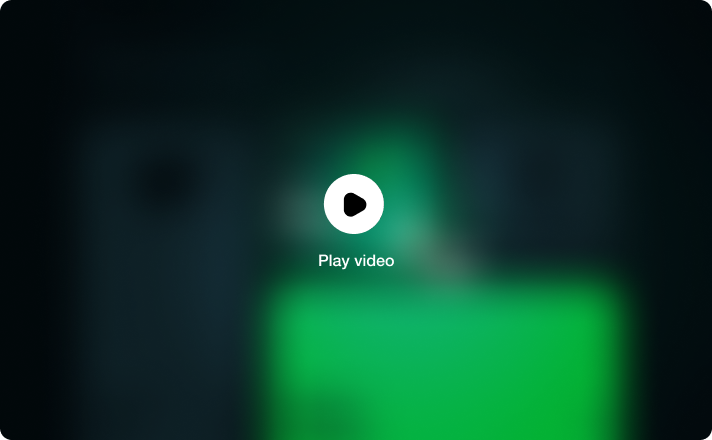
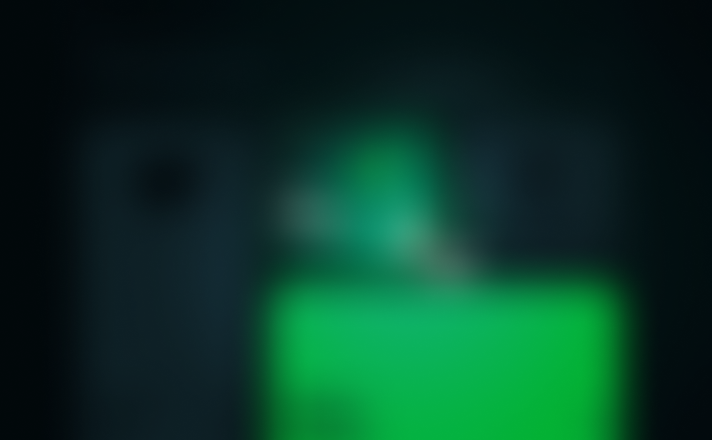
update

diff --git a/src/components/sn-home-page/components/empower-different-layout.tsx b/src/components/sn-home-page/components/empower-different-layout.tsx
@@ -6,16 +6,19 @@ import RecomendedPlagIc from "public/images/home-page/img-flag-recomended.png";
 import EmpowerDifferent from "public/images/home-page/img-time-tracking.png";
 import BallSaleImg from "public/images/home-page/img-ball-sale.png";
 import PlayVideoImg from "public/images/home-page/img-play-video.png";
-import { memo } from 'react';
+import PlayVideoIcon from "public/images/home-page/icon-play-video.svg";
+import { memo, useState } from 'react';
 import Link from "components/Link";
 import ArrowRightLineIc from "public/images/home-page/arrow-right-line.svg";
 import useBreakpoint from 'hooks/useBreakpoint';
+import { ListPackageEmpower } from '../configs';
 
 type EmpowerDifferentLayoutProps = {}
 
 const EmpowerDifferentLayout = (props: EmpowerDifferentLayoutProps) => {
     const { isMdSmaller } = useBreakpoint();
 
+    const [tabActive, setTabActive] = useState(ListPackageEmpower[0])
     return (
         <Stack width="100%" sx={{
 
@@ -61,38 +64,43 @@ const EmpowerDifferentLayout = (props: EmpowerDifferentLayoutProps) => {
                                 width="fit-content"
                                 sx={{
                                     background: "rgba(255, 255, 255, 0.10)",
+                                }}>
 
-                                }}>
-                                <Stack sx={{
-                                    background: "#fff",
-                                    justifyContent: "center",
-                                    alignItems: "center",
-                                    p: "6px 24px",
-                                    borderRadius: "48px"
-                                }}>
-                                    <Text variant={{ xs: "caption", md: "body1" }} color="#000" lineHeight="24px">
-                                        Monthly
-                                    </Text>
-                                </Stack>
-                                <Stack sx={{
-                                    justifyContent: "center",
-                                    alignItems: "center",
-                                    p: "6px 24px",
-                                }}>
-                                    <Text variant={{ xs: "caption", md: "body1" }} color="#fff" lineHeight="24px">
-                                        Yearly
-                                    </Text>
-                                </Stack>
+                                {ListPackageEmpower.map((item, index) => {
+                                    const isActive = tabActive.name == item.name;
+                                    return (
+                                        <Stack sx={{
+                                            justifyContent: "center",
+                                            alignItems: "center",
+                                            p: "6px 24px",
+                                            borderRadius: "48px",
+                                            backgroundColor: isActive ? "#fff" : "transparent",
+                                            transition: ".3s",
+                                            "&:hover": {
+                                                cursor: 'pointer',
+                                                transition: ".3s"
+                                            }
+                                        }}
+                                            onClick={() => setTabActive(item)}
+                                        >
+                                            <Text variant={{ xs: "caption", md: "body1" }} color={isActive ? "#000" : "#fff"} lineHeight="24px">
+                                                {item.name}
+                                            </Text>
+                                        </Stack>
+                                    )
+                                })
+                                }
                             </Stack>
+
                             <Stack flexDirection="row" alignItems="center" mt="16px">
                                 <Text variant="h2" fontSize={{ xs: "24px", md: "36px" }} color="#fff" sx={{ mr: "16px" }}>
                                     $ {" "}
                                 </Text>
                                 <Text variant={{ xs: "h3", md: "h1" }} fontSize={{ xs: "48px", md: "60px" }} lineHeight={{ xs: "48px", md: "64px" }} color="#fff">
-                                    19.00/
+                                    {tabActive.pricePackage}/
                                 </Text>
                                 <Text variant="h3" color="#fff" sx={{ ml: "8px" }}>
-                                    month
+                                    {tabActive.name == "Monthly" ? "month" : "year"}
                                 </Text>
                             </Stack>
                             <Text variant="overline" color="rgba(255,255,255,.7)" lineHeight="28px" fontWeight={400} sx={{ textTransform: "none" }} >
@@ -152,7 +160,7 @@ const EmpowerDifferentLayout = (props: EmpowerDifferentLayoutProps) => {
                                 <Text variant="h2" fontSize={{ xs: "24px", md: "36px" }} lineHeight="44px" color="#fff" >
                                     14 days trial
                                 </Text>
-                                <Text variant="overline" fontSize={{ xs: "16px", md: "18px" }}  color="rgba(255,255,255,.7)" lineHeight="28px" fontWeight={400} sx={{ textTransform: "none", mt: "8px" }}>
+                                <Text variant="overline" fontSize={{ xs: "16px", md: "18px" }} color="rgba(255,255,255,.7)" lineHeight="28px" fontWeight={400} sx={{ textTransform: "none", mt: "8px" }}>
                                     Fit small team of 2 to 3 members who are looking <br /> to optimize planning and executing projects
                                 </Text>
                                 <Stack width="100%" height="1px" bgcolor="rgba(255,255,255,.2)" my={{ xs: "16px", md: "24px" }} />
@@ -190,13 +198,38 @@ const EmpowerDifferentLayout = (props: EmpowerDifferentLayoutProps) => {
                         </Stack>
                         <Stack sx={{
                             borderRadius: "12px",
-                            overflow: "hidden"
+                            overflow: "hidden",
+                            background: "url(/images/home-page/img-play-video.png)",
+                            backgroundSize: "cover",
+                            backgroundRepeat: "no-repeat",
+                            backgroundPosition: "center",
+                            width: "100%",
+                            justifyContent: "center",
+                            alignItems: "center",
                         }}>
-                            <Image src={PlayVideoImg} width={0} height={0} alt="image" style={{
-                                width: "100%",
-                                height: "100%"
-                            }} />
+                            <Stack gap="8px">
+                                <Stack sx={{
+                                    transition: ".3s",
+                                    width:"72px",
+                                    height:"72px",
+                                    "&:hover": {
+                                        cursor: "pointer",
+                                        transition: ".3s",
+                                        transform: "scale(1.1)",
+                                    }
+                                }}>
+                                    <Image src={PlayVideoIcon} alt="image" style={{
+                                        width:"100%",
+                                        height:"100%",
+                                    }} />
+                                </Stack>
 
+                                <Text variant="h5" sx={{
+                                    color: "#fff"
+                                }}>
+                                    Play video
+                                </Text>
+                            </Stack>
                         </Stack>
                     </Stack>
                 </Stack>

diff --git a/src/components/sn-home-page/components/swap-tools-layout.tsx b/src/components/sn-home-page/components/swap-tools-layout.tsx
@@ -1,14 +1,12 @@
 import { Stack } from '@mui/material';
 import { Button, Text } from "components/shared";
-import Image from "next/image";
-import ArrowRightIcon from "public/images/home-page/arrow-right.svg";
-import ImgLinePage from "public/images/home-page/img-line-page.svg";
-import ActiveIcon from "public/images/home-page/icon-active.svg";
-import Logo from "public/images/home-page/logo.png";
-import OrIcon from "public/images/home-page/icon-different-tool.svg";
-import { memo } from 'react';
-import { PricingToolList, SwapMultiToolItems, TaskCoverItems } from '../configs';
 import useBreakpoint from 'hooks/useBreakpoint';
+import Image from "next/image";
+import ActiveIcon from "public/images/home-page/icon-active.svg";
+import OrIcon from "public/images/home-page/icon-different-tool.svg";
+import Logo from "public/images/home-page/logo.png";
+import { memo } from 'react';
+import { PricingToolList, SwapMultiToolItems } from '../configs';
 type SwapToolsLayoutProps = {}
 
 const SwapToolsLayout = (props: SwapToolsLayoutProps) => {
@@ -17,7 +15,7 @@ const SwapToolsLayout = (props: SwapToolsLayoutProps) => {
     return (
         <Stack width="100%" sx={{
             background: "url(/images/home-page/bg-swap-tools.png)",
-            backgroundColor: "#DBF3F",
+            backgroundColor: "#DBF3FD",
             backgroundSize: "cover",
             backgroundRepeat: "no-repeat",
             backgroundPosition: "center",
@@ -101,14 +99,13 @@ const SwapToolsLayout = (props: SwapToolsLayoutProps) => {
                             backgroundSize: "cover",
                             backgroundRepeat: "no-repeat",
                             backgroundPosition: "center",
-                            width: "100%"
+                            width: "93%",
                         }}>
                         <Stack
                             p={{ xs: "24px", md: "40px" }}
                             borderRadius="24px"
                             boxShadow="0px 8px 8px 0px rgba(28, 67, 113, 0.12)"
                             gap={{ xs: "24px", md: "32px" }}
-                            height="100%"
                             sx={{ background: "linear-gradient(90deg, #0575E6 5.8%, #38E27B 96.38%)" }}>
                             <Stack>
                                 <Image src={Logo} width={160} alt="image" style={{ marginBottom: "8px" }} />
@@ -131,7 +128,12 @@ const SwapToolsLayout = (props: SwapToolsLayoutProps) => {
                                         PricingToolList.map((e, i) => (
                                             <Stack key={i} flexDirection="row" gap="8px" alignItems="center">
                                                 <Image src={ActiveIcon} width={20} height={20} alt="image" />
-                                                <Text variant="overline" fontSize={{ xs: "14px", md: "18px" }} fontWeight={400} color="#fff" style={{ textTransform: "none" }}>
+                                                <Text
+                                                    variant="overline"
+                                                    fontSize={{ xs: "14px", md: "18px" }}
+                                                    lineHeight={{ xs: "20px", md: "28px" }}
+                                                    fontWeight={400} color="#fff"
+                                                    style={{ textTransform: "none" }}>
                                                     {e}
                                                 </Text>
                                             </Stack>
@@ -149,7 +151,6 @@ const SwapToolsLayout = (props: SwapToolsLayoutProps) => {
                             </Stack>
                         </Stack>
                     </Stack>
-
                 </Stack>
 
             </Stack>

diff --git a/src/components/sn-home-page/index.tsx b/src/components/sn-home-page/index.tsx
@@ -18,13 +18,13 @@ type HomePageProps = {};
 const HomePage = (props: HomePageProps) => {
   return (
     <Stack overflow="hidden" bgcolor="#fff">
-      <HeadLayout />
+      {/* <HeadLayout />
       <PowerfulAgentLayout />
       <FullyObtimizeLayout />
       <ManageProjectLayout />
       <ExploreLayout />
-      <TaskCoverLayout />
-      <SwapToolsLayout />
+      <TaskCoverLayout /> */}
+      {/* <SwapToolsLayout /> */}
       <EmpowerDifferentLayout />
       <SendMailLayout/>
     </Stack >

diff --git a/src/components/sn-home-page/configs/index.ts b/src/components/sn-home-page/configs/index.ts
@@ -331,3 +331,14 @@ export const PricingToolList = [
   "Al meeting",
   "Team Chat",
 ];
+
+export const ListPackageEmpower = [
+  {
+    name:"Monthly",
+    pricePackage : "19.00",
+  },
+  {
+    name:"Yearly",
+    pricePackage : "199.00",
+  }
+]
